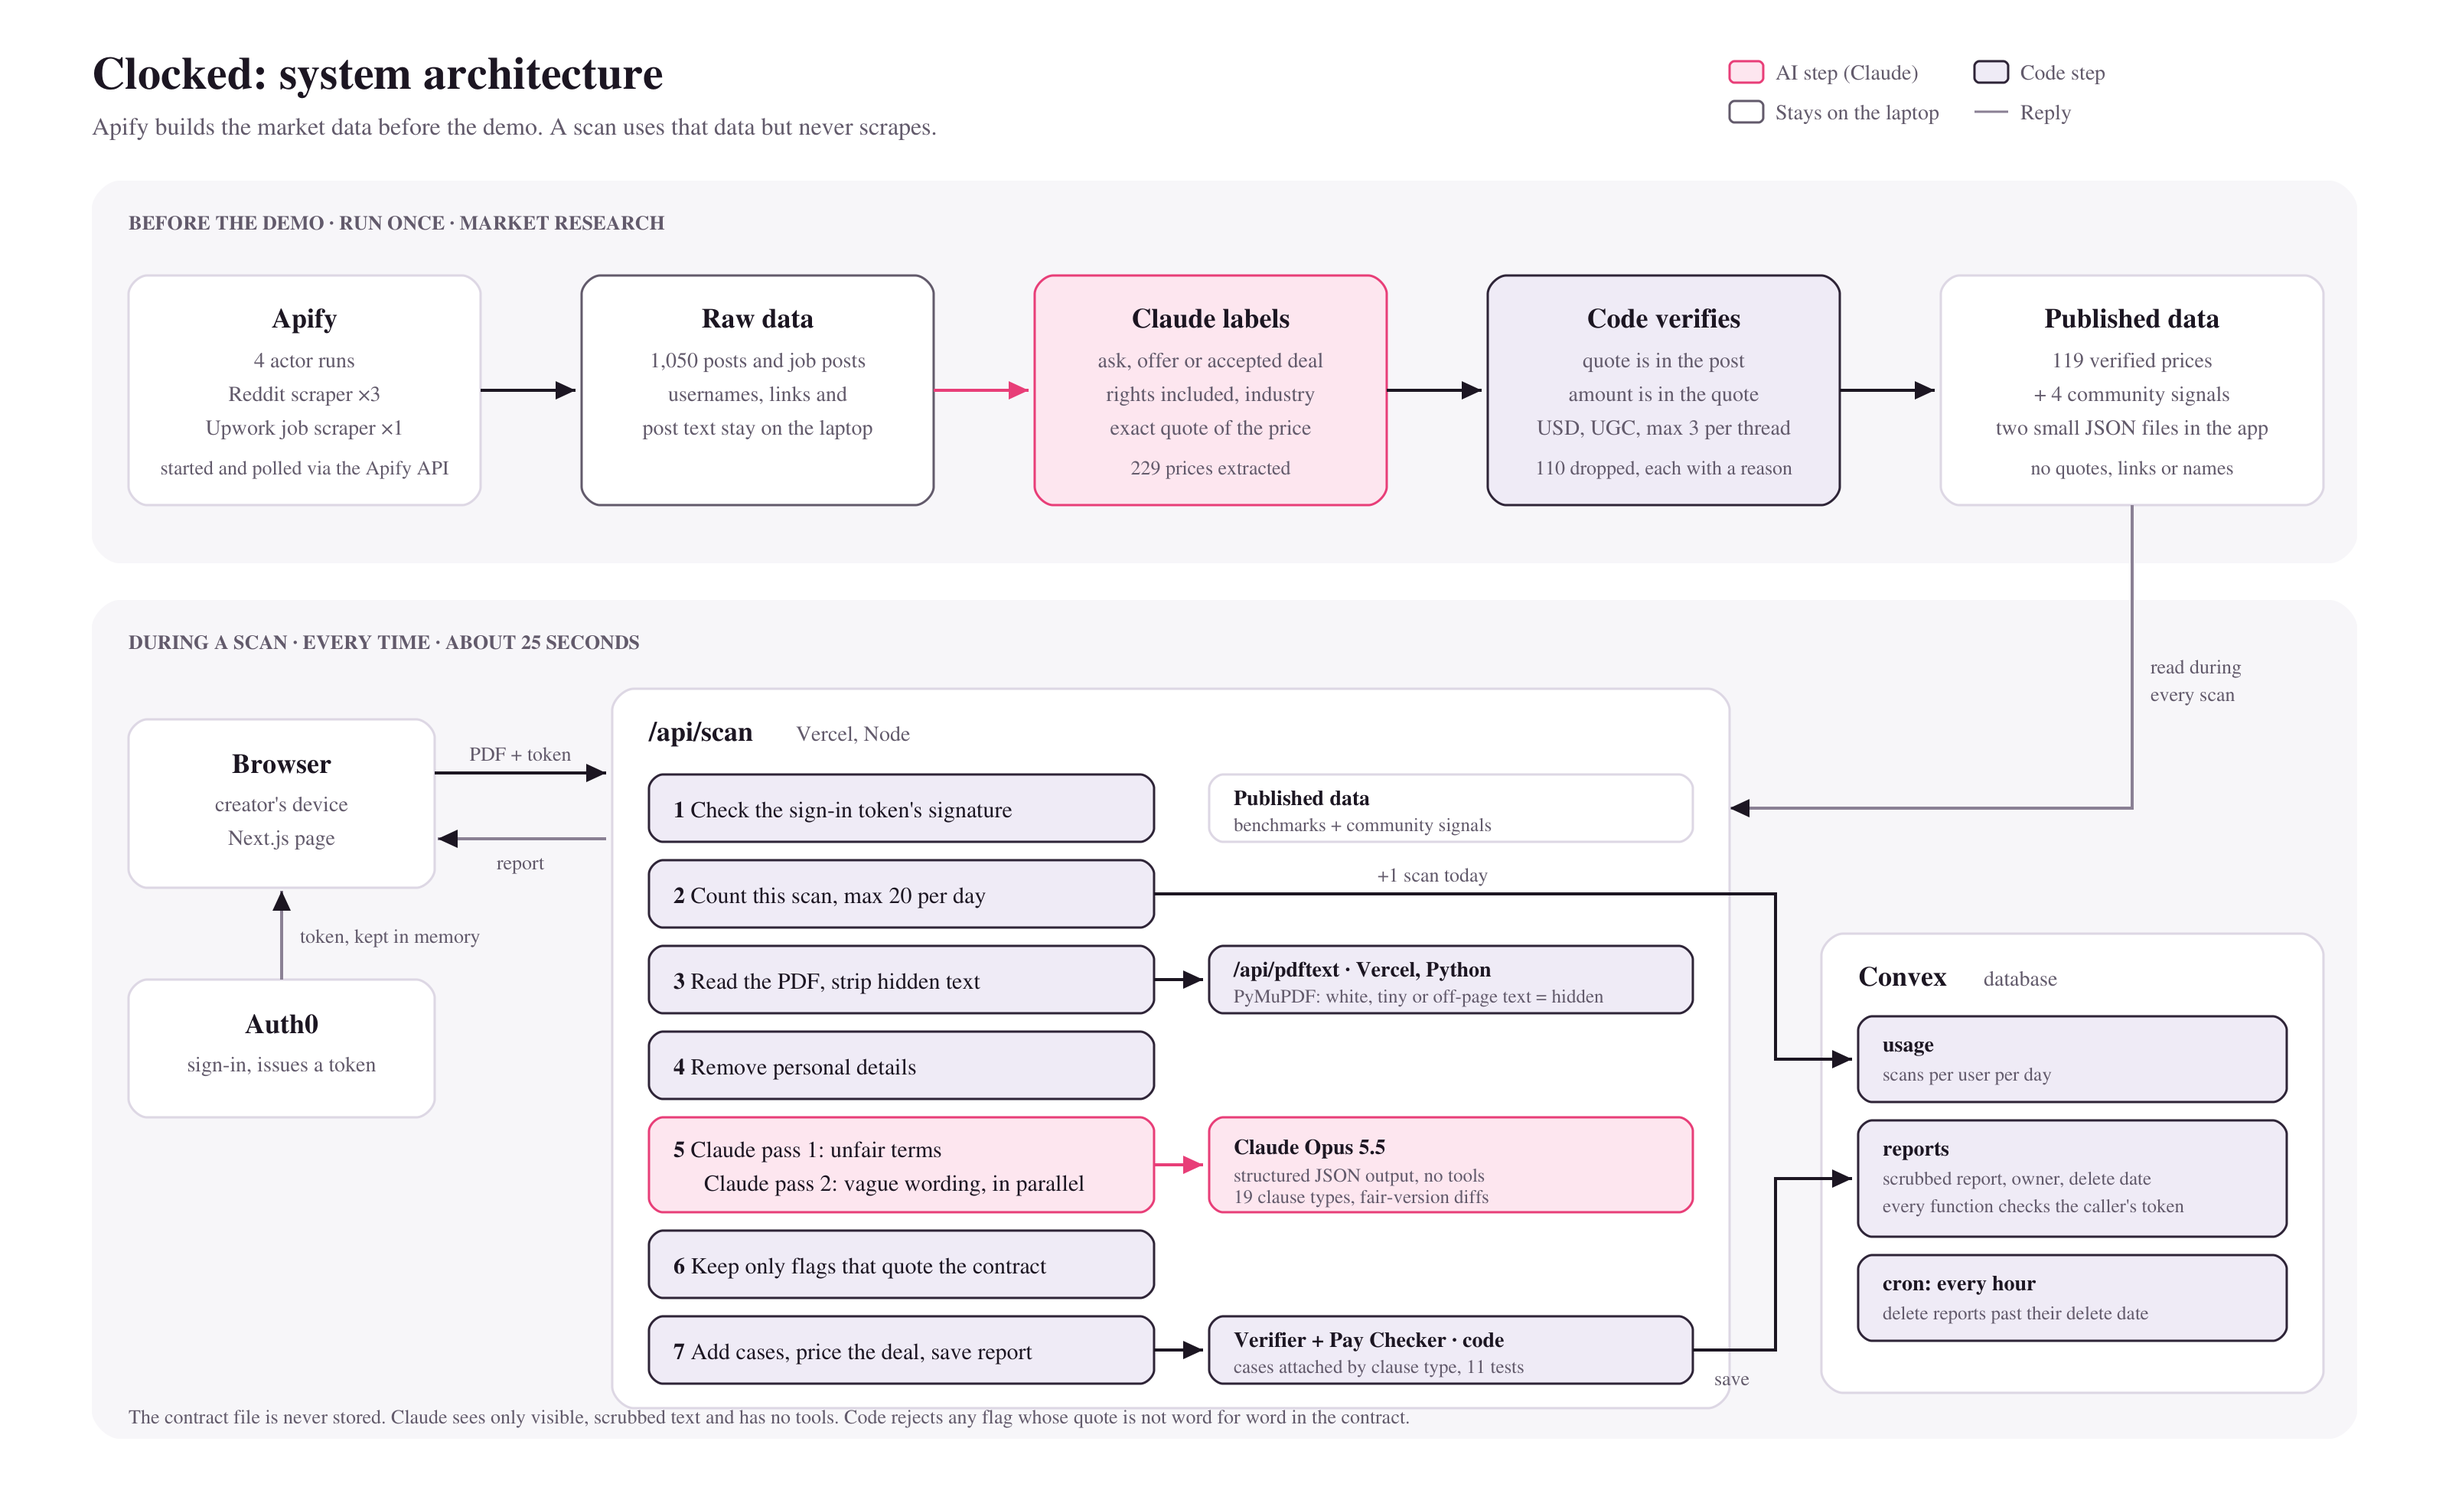
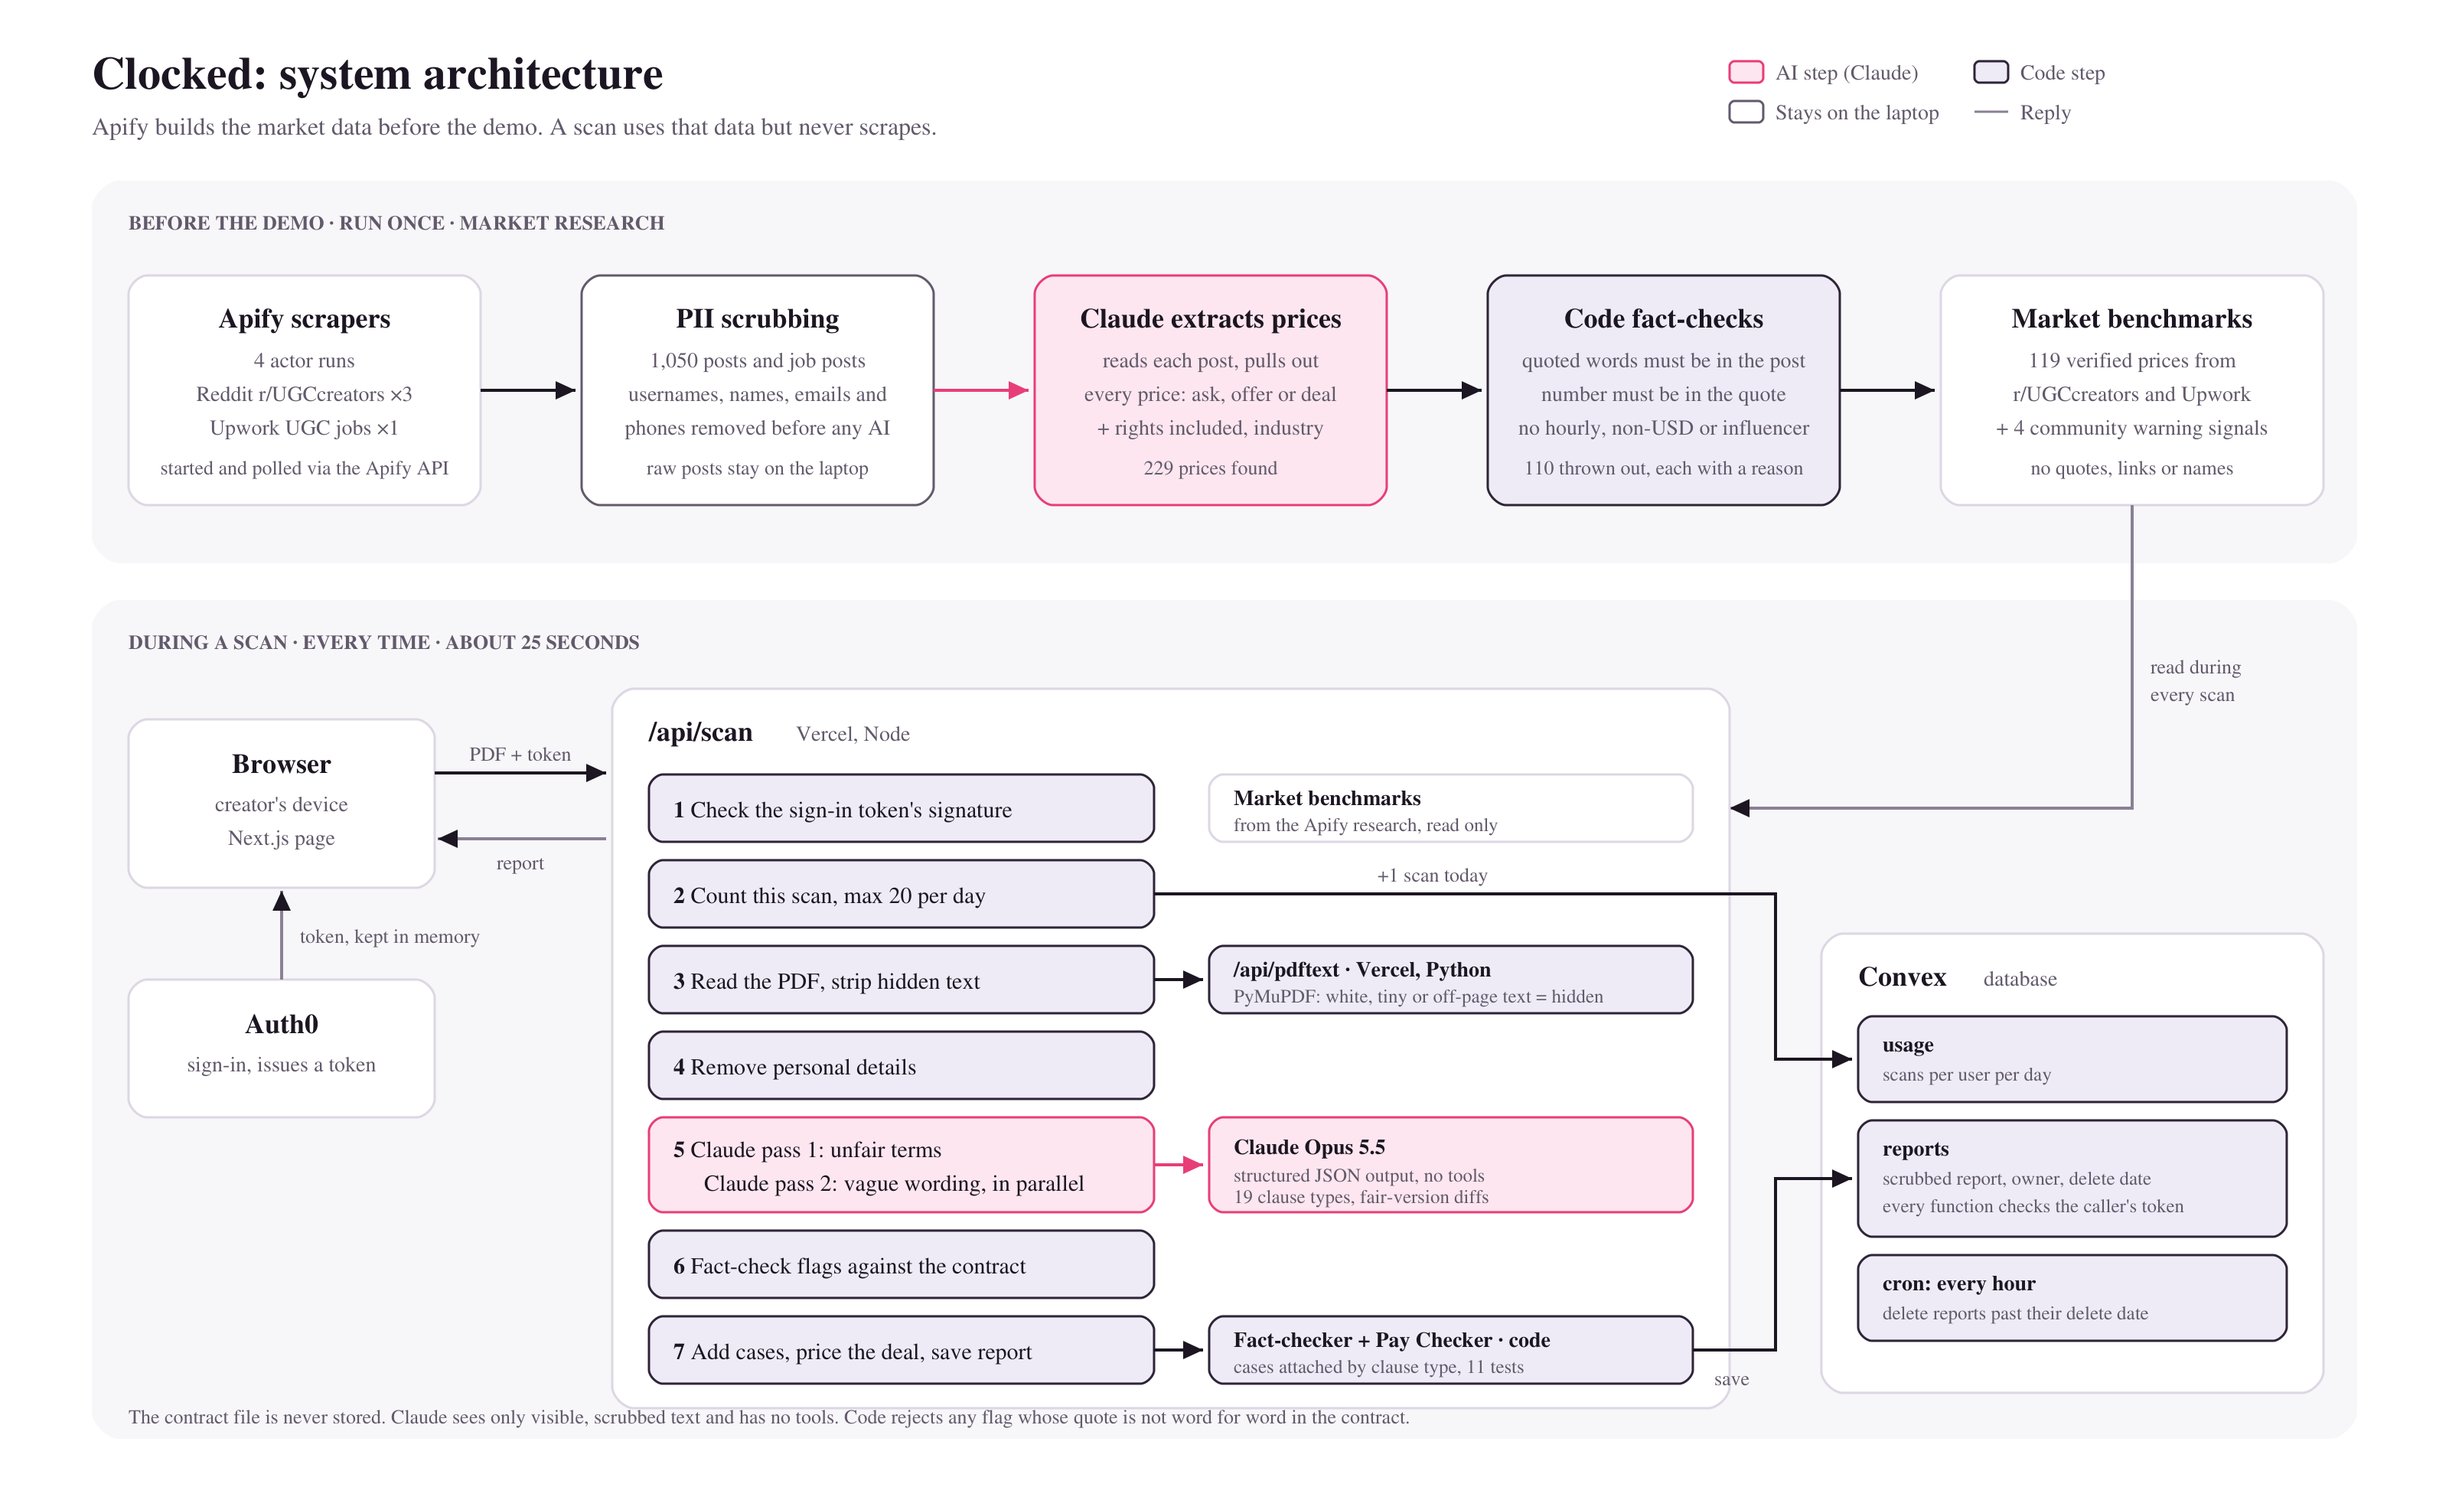
Plainer names in the architecture diagram and Devpost text

diff --git a/DEVPOST.md b/DEVPOST.md
@@ -52,11 +52,11 @@ At a high level, Clocked is a Next.js app on Vercel, a Convex database, Auth0 si
 Nobody publishes UGC rates, so we built the dataset ourselves.
 
 1. **Collect.** Our script starts each Apify actor through the Apify API, polls it every 15 seconds, and downloads the results. Four runs on r/UGCcreators and Upwork: rate questions (300 items), one search per brand industry (400), contract-term complaints for the Radar (250), and UGC job posts from payment-verified brands (100).
-2. **Label.** Claude reads each post and returns a structured record: the exact quoted price, whether it is a creator's ask, a brand's offer or an accepted deal, which rights were included, and the brand's industry.
-3. **Verify in code.** A price is dropped unless its quote appears word for word in the post and the amount appears in the quote. We also drop influencer prices, advice ranges, hourly and non-USD prices, and keep at most 3 prices per thread.
+2. **Extract prices (Claude).** Claude reads each post and pulls out every price as a structured record: the exact quoted price, whether it is a creator's ask, a brand's offer or an accepted deal, which rights were included, and the brand's industry.
+3. **Fact-check in code.** Think of a fact-checker at a newspaper. Every price Claude pulled out is checked against the original post: the quoted words must be in the post, and the number must be in the quote. If either check fails, the price is thrown out. We also drop influencer prices, advice ranges, hourly and non-USD prices, and keep at most 3 prices per thread.
 4. **Group.** Asks, offers and accepted deals are never mixed. "$150 for an organic video" is never compared with "$150 for a video plus a year of paid ads". A group is used for pricing only with 15+ prices from 5+ threads.
 
-**Result:** 780 recent items → 229 prices extracted → **119 verified**, with a recorded reason for each of the 110 we dropped. The Radar sorted 250 complaints into our 19 clause types and kept the 4 with enough mentions: perpetual usage (15), paid ads bundled in (14), performance pay with no minimum (8), raw footage (7). Published files contain no post text, links or usernames.
+**Result:** 780 recent items → 229 prices extracted → **119 verified**, with a recorded reason for each of the 110 we dropped. The Radar sorted 250 complaints into our 19 clause types and kept the 4 with enough mentions: perpetual usage (15), paid ads bundled in (14), performance pay with no minimum (8), raw footage (7). Before any post reaches Claude, usernames and personal details are removed (PII scrubbing). Published files contain no post text, links or usernames.
 
 ### Agent workflow
 
@@ -66,7 +66,7 @@ Clocked is not one prompt. It is a chain of narrow model calls, each with a fixe
 2. **Scrubber (code).** Names, emails, phones, addresses, handles, SSNs and bank numbers become placeholders.
 3. **Pass 1, unfair terms (Claude).** Flags against 19 clause types, plus overall risk, top 3 fixes, missing protections, and the deal terms for pricing.
 4. **Pass 2, vague wording (Claude).** Reads every definition, deadline and condition for small wording with big consequences. Runs at the same time as pass 1.
-5. **Verifier (code).** Drops any flag whose quote is not word for word in the contract. Attaches the matching lawsuit and legal note by clause type. The model never writes a case or a statistic, so it cannot invent one.
+5. **Fact-checker (code).** Drops any flag whose quote is not word for word in the contract. Attaches the matching lawsuit and legal note by clause type. The model never writes a case or a statistic, so it cannot invent one.
 6. **Pay Checker (code, 11 tests).** Base rate per video × videos × (1 + uplifts for the rights the contract takes) = fair range. Then verdict, counteroffer, rights to drop, and a one-sentence message to send.
 
 ### Legal fine-tuning
